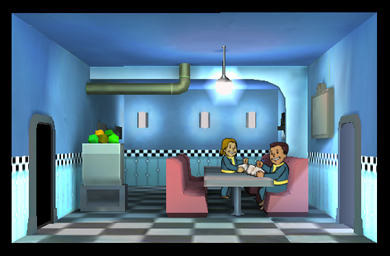
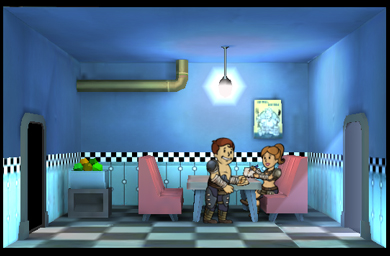
Updated Diner

diff --git a/Rooms/Diner.md b/Rooms/Diner.md
@@ -25,12 +25,12 @@ Tier | Name | Cost | Upgrade Cost | Production | Storage | Destruction Value
 
 ## Single Wide Room
 
-![Diner](t1images/singlediner.jpg)
+![Diner](t2images/singlerestaurant.jpg)
 
 Each additional Room is 25 Caps
 
 Tier | Name | Cost | Upgrade Cost | Production | Storage | Destruction Value
 ------|------|------|------|------|------|------
 1 | Diner | 100 | 250 | 8 | 50 | 20
-2 | Restaurant | | 750 | 10 | 75 | xxx
+2 | Restaurant | | 750 | 10 | 75 | 50
 3 | Cafeteria | | | 12 | 100 | xxx
